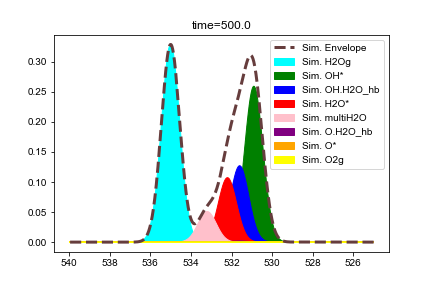
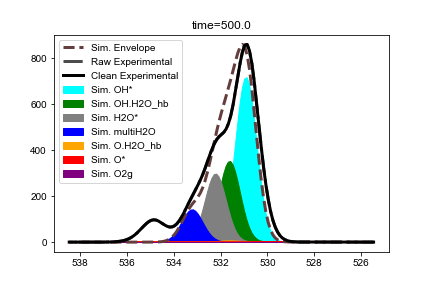
Add experimental data analysis to the examples

diff --git a/lblcrn/experiments/xps.py b/lblcrn/experiments/xps.py
@@ -180,7 +180,7 @@ class XPSObservable:
     def deconv_gaussians(self) -> Optional[pd.DataFrame]:
         """The deconvoluted gaussians of the XPS observable."""
         # Gaussians have a species as their column name
-        if not self.deconvoluted:
+        if self.deconvoluted is None:
             return None
 
         gauss_cols = []
@@ -729,7 +729,7 @@ class XPSExperiment(experiment.Experiment, XPSObservable):
             # Arguments for the experimental data
             experimental: Optional[bool] = None,
             exp_data: Optional[pd.Series] = None,
-            gas_phase: Optional[bool] = None,
+            gas_phase: Optional[bool] = False,
             gas_interval: Optional[Tuple[float, float]] = None,
             decontaminate: Optional[bool] = None,
             contaminate: Optional[bool] = None,
@@ -812,8 +812,6 @@ class XPSExperiment(experiment.Experiment, XPSObservable):
             raise ValueError('Cannot evaluate gas phase without experimental.')
         elif gas_phase and not valid_gas_interval(gas_interval):
             raise ValueError(f'Invalid gas interval {gas_interval}')
-        elif gas_phase is None:
-            gas_phase = experimental
 
         # Handle: contam_spectra
         if contam_spectra and not experimental:
@@ -1340,7 +1338,7 @@ class XPSExperiment(experiment.Experiment, XPSObservable):
               gas_phase: Optional[bool] = None,
               decontaminate: Optional[bool] = None,  # TODO
               contaminate: Optional[bool] = None,  # TODO
-              deconvolute: Optional[bool] = None,
+              deconvolute: Optional[bool] = False,
               # Args passed only to plotter
               sim_gaussians: bool = True,
               envelope: bool = True,
@@ -1429,60 +1427,3 @@ class XPSExperiment(experiment.Experiment, XPSObservable):
                                              convert_axes=False)
             d['experimental'].index = d['experimental'].index.map(float)
         return cls(**d)
-
-def simulate_xps(rsys: RxnSystem,
-                 time: Optional[float] = None,
-                 end_when_settled: bool = False,
-                 title: str = '',
-                 species: List[sym.Symbol] = None,
-                 ignore: List[sym.Symbol] = None,
-                 x_range: Optional[np.ndarray] = None,
-                 scale_factor: float = None,
-                 experimental: pd.Series = None,
-                 gas_interval: Tuple[float, float] = None,
-                 contam_spectra: Optional[Dict[sym.Symbol, pd.Series]] = None,
-                 deconv_species: Optional[List[sym.Symbol]] = None,
-                 autoresample: bool = True,
-                 autoscale: bool = True,
-                 **options) -> XPSExperiment:
-    """Simulate the given reaction system over time.
-
-    Args:
-        TODO: add rest
-        rsys: ReactionsSystem, the reaction system to simulate
-        time: The time until which to simulate.
-        species: The species to include in the XPS.
-        ignore: The species to not include in the XPS.
-        autoresample: Decides if the XPS resamples on edits.
-        autoscale: Decides if the XPS will automatically scale
-            the gaussians and envelope to match the experimental data.
-        experimental: The experimental value of the XPS.
-        gas_interval: The interval in which the peak of the gas phase is
-            in the XPS.
-        scale_factor: The scale factor by which to scale the simulated
-            gaussians in the XPS.
-        title: The name to give the XPS, used in plotting.
-        **options: Forwarded to scipy.integrate.solve_ivp
-
-    Returns:
-        A Solution object describing the solution.
-    """
-    end_when_settled = end_when_settled or (time is None)
-
-    sol_t, sol_y = bulk_crn.solve_rsys_ode(rsys, time, end_when_settled, **options)
-    cts = time_series.CRNTimeSeries(sol_t, sol_y, rsys)
-
-    return cts.xps_with(title=title,
-                        species=species,
-                        ignore=ignore,
-                        x_range=x_range,
-                        scale_factor=scale_factor,
-                        experimental=experimental,
-                        gas_interval=gas_interval,
-                        contam_spectra=contam_spectra,
-                        deconv_species=deconv_species,
-                        autoresample=autoresample,
-                        autoscale=autoscale)
-
-def simulate_xps_with_cts():
-    print("this function has been moved to simulate.py")

diff --git a/lblcrn/experiments/simulate.py b/lblcrn/experiments/simulate.py
@@ -6,61 +6,6 @@ from lblcrn import bulk_crn
 from lblcrn.experiments import time_series
 from lblcrn.crn_sym.rxn_system import RxnSystem
 
-
-def simulate_xps(rsys: RxnSystem,
-                 time: Optional[float] = None,
-                 end_when_settled: bool = False,
-                 title: str = '',
-                 species: List[sym.Symbol] = None,
-                 ignore: List[sym.Symbol] = None,
-                 x_range: Optional[np.ndarray] = None,
-                 scale_factor: float = None,
-                 experimental: pd.Series = None,
-                 gas_interval: Tuple[float, float] = None,
-                 contam_spectra: Optional[Dict[sym.Symbol, pd.Series]] = None,
-                 deconv_species: Optional[List[sym.Symbol]] = None,
-                 autoresample: bool = True,
-                 autoscale: bool = True,
-                 **options):
-    """Simulate the given reaction system over time.
-
-    Args:
-        TODO: add rest
-        rsys: ReactionsSystem, the reaction system to simulate
-        time: The time until which to simulate.
-        species: The species to include in the XPS.
-        ignore: The species to not include in the XPS.
-        autoresample: Decides if the XPS resamples on edits.
-        autoscale: Decides if the XPS will automatically scale
-            the gaussians and envelope to match the experimental data.
-        experimental: The experimental value of the XPS.
-        gas_interval: The interval in which the peak of the gas phase is
-            in the XPS.
-        scale_factor: The scale factor by which to scale the simulated
-            gaussians in the XPS.
-        title: The name to give the XPS, used in plotting.
-        **options: Forwarded to scipy.integrate.solve_ivp
-
-    Returns:
-        An XPSExperiment with the simulation results.
-    """
-    end_when_settled = end_when_settled or (time is None)
-
-    sol_t, sol_y = bulk_crn.solve_rsys_ode(rsys, time or 0, end_when_settled, **options)
-    cts = time_series.CRNTimeSeries(sol_t, sol_y, rsys)
-
-    return cts.xps_with(title=title,
-                        species=species,
-                        ignore=ignore,
-                        x_range=x_range,
-                        scale_factor=scale_factor,
-                        experimental=experimental,
-                        gas_interval=gas_interval,
-                        contam_spectra=contam_spectra,
-                        deconv_species=deconv_species,
-                        autoresample=autoresample,
-                        autoscale=autoscale)
-
 def simulate(
     rsys: RxnSystem,
     time: Optional[float] = None,
@@ -122,5 +67,3 @@ def simulate(
         ),
         cts,
     )
-
-simulate_xps_with_cts = simulate

diff --git a/lblcrn/experiments/xps_io.py b/lblcrn/experiments/xps_io.py
@@ -103,6 +103,16 @@ def read_data(filename):
     f.close()
     return data
 
+def read_exp(filename, be=0):
+    f = open(filename)
+
+    it = file_iter(f)
+    next(it, None)
+    bes, intensities = parse_new_data(it, be)
+    bes.reverse()
+    intensities.reverse()
+    series = pd.Series(data=intensities, index=bes)
+    return series
 
 def read_new_data(filename, be=0):
     f = open(filename)

diff --git a/lblcrn/experiments/__init__.py b/lblcrn/experiments/__init__.py
@@ -1,1 +1,1 @@
-from lblcrn.experiments.simulate import simulate_xps_with_cts
+from lblcrn.experiments.simulate import simulate

diff --git a/doc/source/bulk_examples.rst b/doc/source/bulk_examples.rst
@@ -11,7 +11,8 @@ This will be a step-by step explanation of setting up a basic predator-prey scen
 First, import the library::
 
     from lblcrn.crn_sym import *
-    from lblcrn.experiments.simulate import *
+    from lblcrn.experiments.simulate import simulate
+    from lblcrn.experiments.xps_io import read_exp
 
 Then make your species manager. This is the object that keeps track of all
 the information relating to species. See the docs here (TODO)::
@@ -220,9 +221,11 @@ concentrations::
         sm
     )
 
-A simple call to :code:`simulate` is all that is needed to simulate this complicated system::
+A simple call to :code:`simulate` is all that is needed to simulate this complicated system. In this
+example, we also pass in a species that should be ignored when analyzing results (the gas phase of
+H2O) as well as a pandas Series of experimental results (parsed from raw output)::
 
-    xps, ts = simulate(rsys, 500, max_step=1)
+    xps, ts = simulate(rsys, 500, max_step=1, ignore=[y1], experimental=read_exp("<path to file>"))
 
 As with previous examples, the time-series data can be plotted::
 
@@ -234,7 +237,8 @@ As with previous examples, the time-series data can be plotted::
 
 However, given the chemical context, a predicted XPS spectra can also be plotted using the xps
 return value from :code:`simulate`. Using the supplied orbital values, Gaussian peaks can be plotted
-for all species::
+for all species. Since experimental values were also provided, the simulated peaks are automatically
+scaled and plotted against the real experimental Gaussian for comparison::
 
     xps.plot()
 
